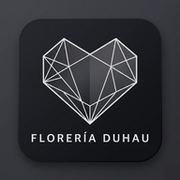
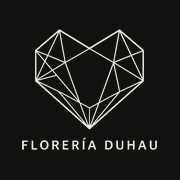
App instalable más profesional: íconos a pantalla completa, accesos directos y manifiesto completo
Claude-Session: https://claude.ai/code/session_01S9sGf93upJ4FwktUig6WjH

diff --git a/src/modules/app.js b/src/modules/app.js
@@ -15,7 +15,7 @@ import { EV_ZONAS, openZonasEventoModal, guardarZonasEvento } from './zonas-even
 import { configurarCalendario, getEventosView, initEventosToggle, renderCalendario, calPrevMonth, calNextMonth } from './calendario.js';
 import { configurarCostoHotel, renderCostoHotel, exportCostoHotel } from './costo-hotel.js';
 import { PAGE_LABELS, JARDINERIA_BASE, HABITACIONES_BASE, DIA_MADRE_ARREGLOS } from './datos-base.js';
-import { renderBottomNav, updateBottomNav } from './nav-inferior.js';
+import { renderBottomNav, updateBottomNav, irAAtajoInicial } from './nav-inferior.js';
 import { listaPreciosData, renderListaPrecios, lpUpdItem, lpDelItem, lpDelCat, openLpModal, saveLpItem, openLpCatModal, addLpCat, lpAddPhotos, lpRemovePhoto, lpOpenViewer } from './lista-precios.js';
 import { leerFotoComprimida, comprimirImagen } from './imagenes.js';
 import { toggleCfSplit, cfSplitAddRow, cfSplitRemoveRow, cfSplitUpdRow, getCfSplitRows, resetCfSplitRows } from './compras-reparto.js';
@@ -13430,6 +13430,7 @@ async function doLogin(){
     setTimeout(()=>initPushForUser?.(), 2000);
     setTimeout(()=>alertasAutomaticas(TODAY_ISO), 4000);
     setTimeout(()=>checkOnboarding(entry.role), 800);
+    setTimeout(()=>irAAtajoInicial(), 100);
     // Briefing del día (si ya se vio hoy, cae al aviso de eventos de siempre)
     setTimeout(()=>mostrarBriefingDia(), 2200);
     // Mantenimiento: poda del historial (gerencia, una vez al día, sin urgencia)

diff --git a/src/modules/nav-inferior.js b/src/modules/nav-inferior.js
@@ -63,3 +63,28 @@ export function updateBottomNav(pageId) {
     el.classList.toggle('active', el.dataset.page === pageId);
   });
 }
+
+// ── ATAJOS DE LA APP INSTALADA ──────────────────────────────────────────────
+// Al mantener apretado el ícono de la app, el manifiesto ofrece accesos
+// directos (/?ir=checklist, etc.). Se guarda el destino al abrir y se usa
+// recién después del login; solo se respeta si esa sección está en la barra
+// inferior del rol (así un atajo no abre nada que el rol no vería).
+let _destinoAtajo = null;
+try {
+  const u = new URL(location.href);
+  _destinoAtajo = u.searchParams.get('ir');
+  if(_destinoAtajo){
+    u.searchParams.delete('ir');
+    history.replaceState(null, '', u.pathname + u.search + u.hash);
+  }
+} catch(e){ _destinoAtajo = null; }
+
+export function irAAtajoInicial() {
+  const destino = _destinoAtajo;
+  _destinoAtajo = null;
+  if(!destino) return;
+  const item = document.querySelector('.bottom-nav-item[data-page="' + CSS.escape(destino) + '"]');
+  if(!item) return;
+  window.navigate?.(destino, null);
+  updateBottomNav(destino);
+}

diff --git a/public/service-worker.js b/public/service-worker.js
@@ -1,10 +1,11 @@
-const CACHE = 'floreria-duhau-v18';
+const CACHE = 'floreria-duhau-v19';
 const ASSETS = [
   '/',
   '/index.html',
   '/manifest.json',
   '/icon-192.png',
   '/icon-512.png',
+  '/icon-maskable-512.png',
   '/apple-touch-icon.png',
   'https://fonts.googleapis.com/css2?family=Cormorant+Garamond:ital,wght@0,300;0,400;0,500;0,600;1,300;1,400&family=DM+Sans:ital,opsz,wght@0,9..40,300;0,9..40,400;0,9..40,500;0,9..40,600;1,9..40,300;1,9..40,400&family=Jost:wght@300;400;500;600&display=swap'
 ];
